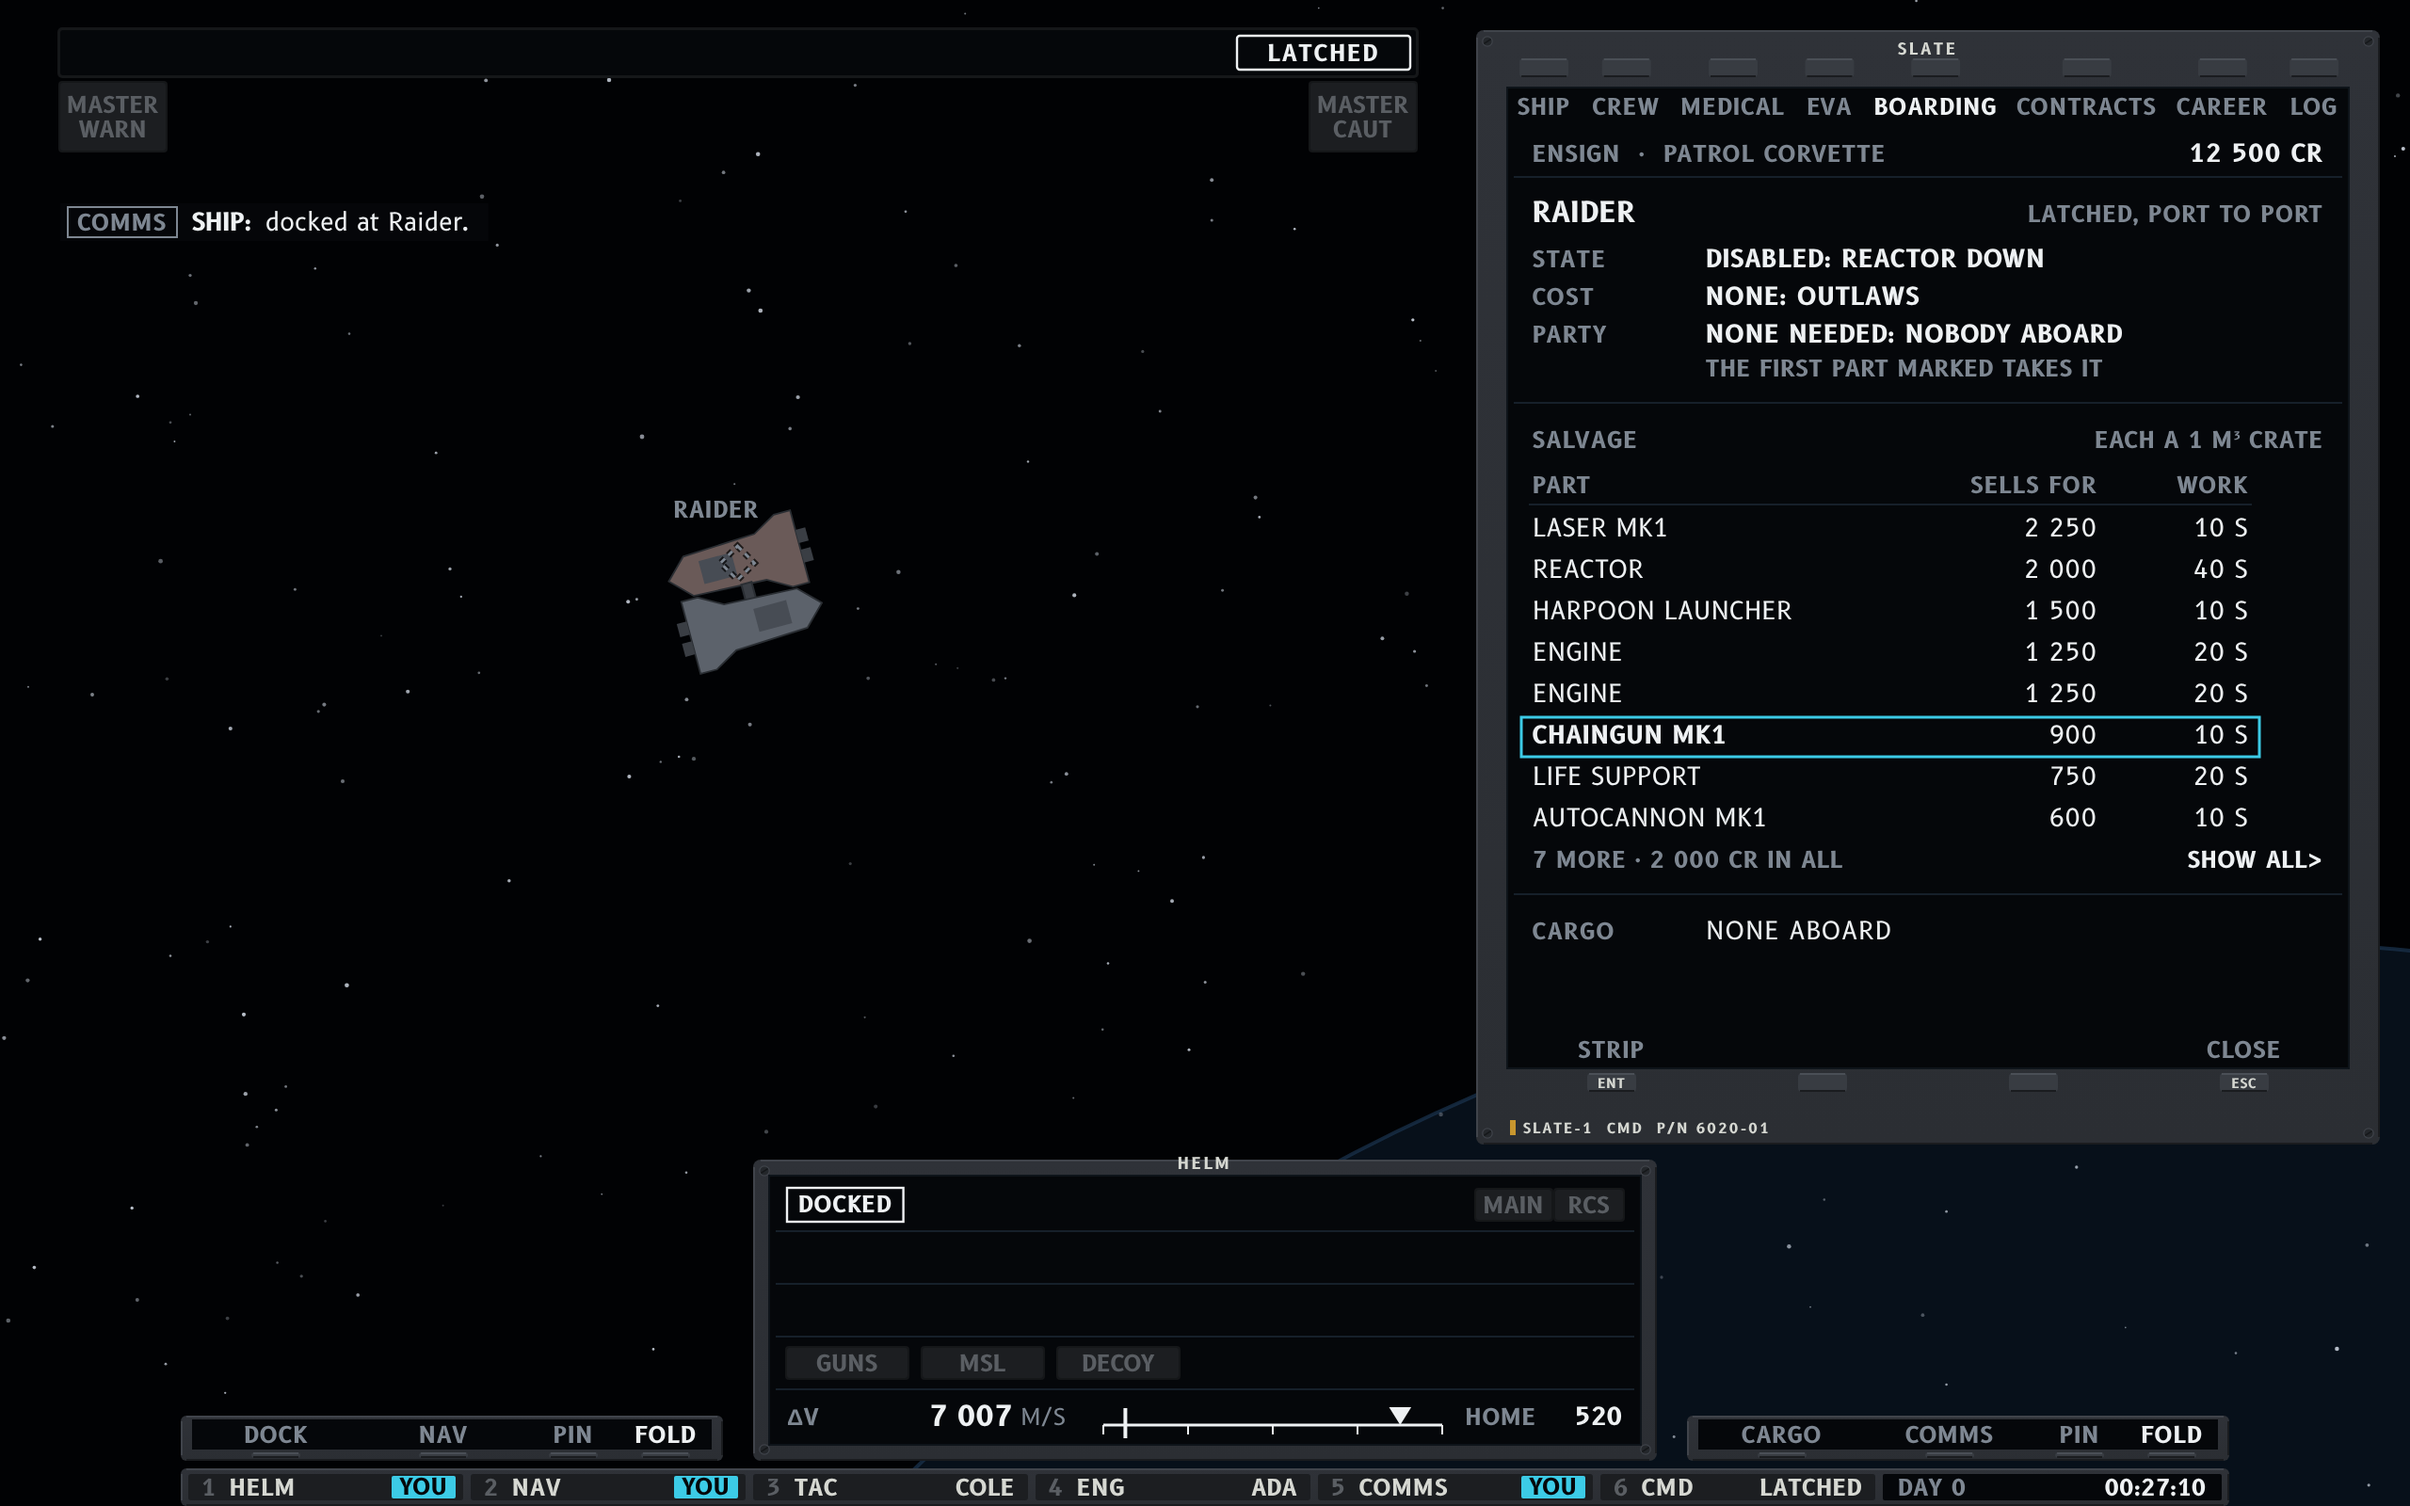
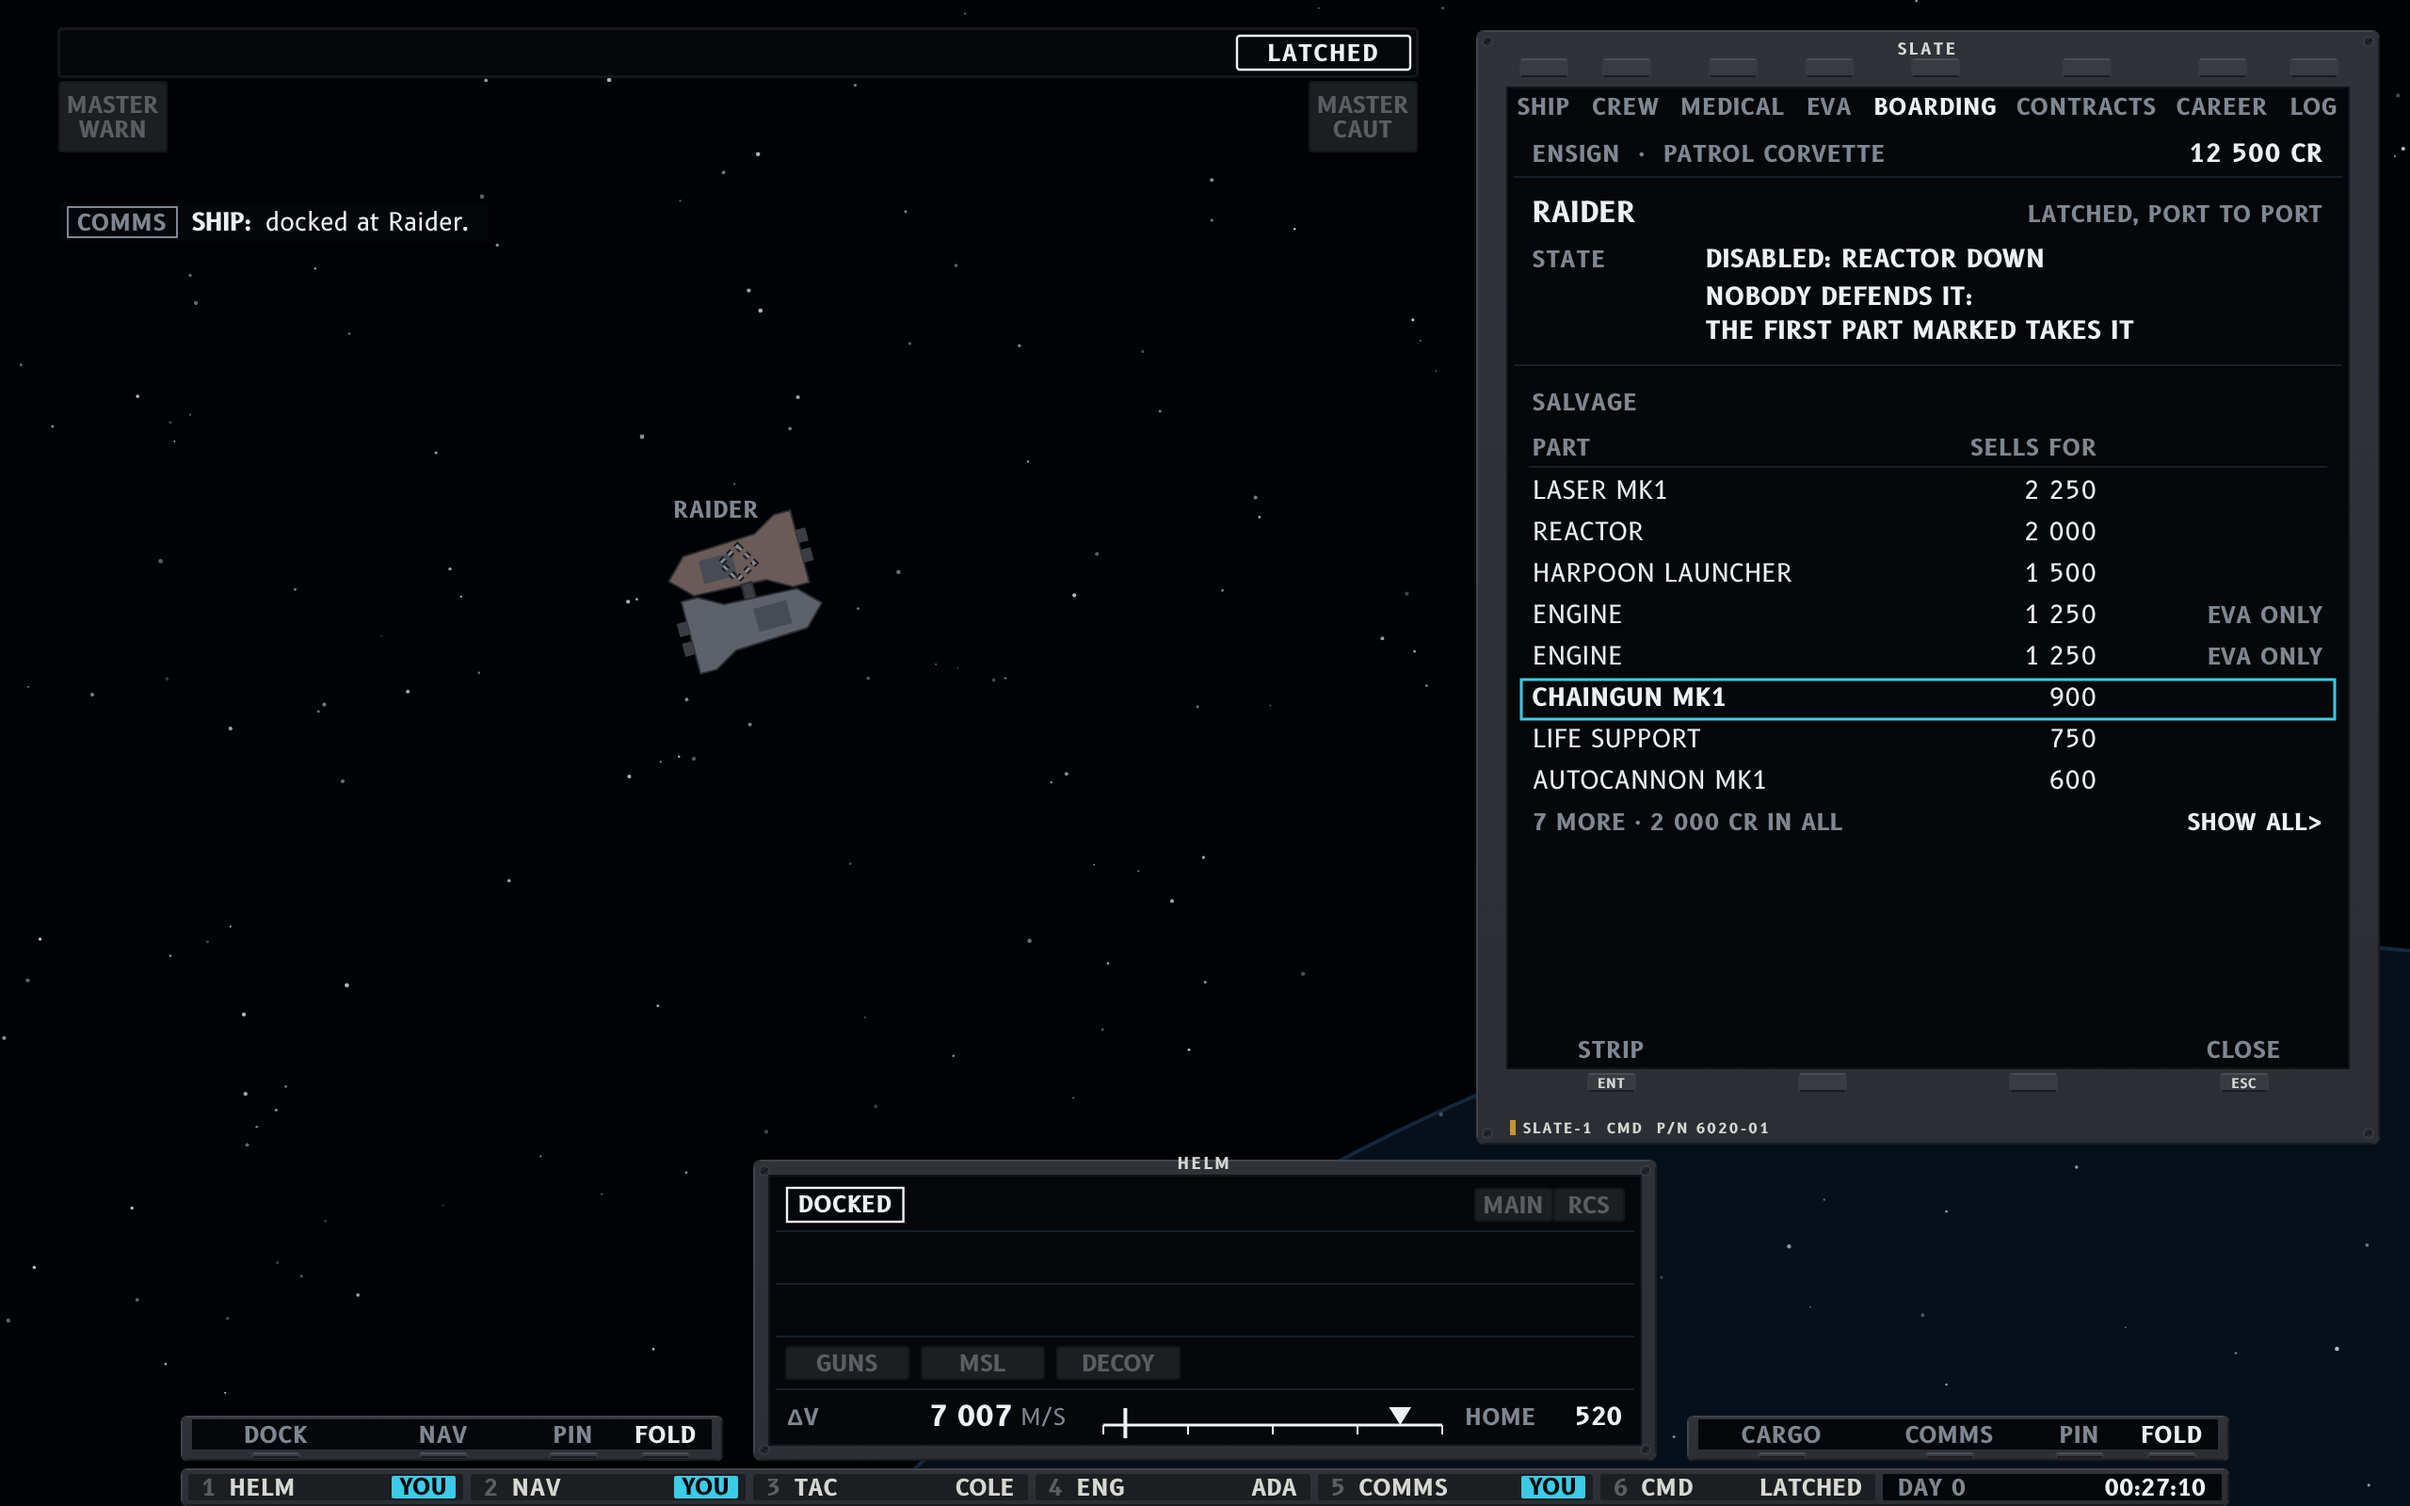
Nasa-punk x Stations: draw round 19's Boarding tab on S5
A disabled ship nobody defends gets no party row: the state line says
once that the first part marked takes it, and the parts are open at
once. The engines read EVA ONLY, and the empty cost and cargo rows go
by the same dark-ship rule.

Claude-Session: https://claude.ai/code/session_019poqwU7t7xAtWdh55iGaqe

Changed region(s): [[0.625, 0.1875, 0.9688, 0.625], [0.6875, 0.1875, 0.9062, 0.25]]

diff --git a/documentation/ui-overhaul/variations/nasapunk-stations/s5-slate-boarding.html b/documentation/ui-overhaul/variations/nasapunk-stations/s5-slate-boarding.html
@@ -19,16 +19,18 @@
 // part (the captain's rank, the ship and the credits) is on the glass, under the tabs; the bezel
 // carries only the panel's name.
 //
-// The tab is what the game's boarding window has for this ship (BoardingWork, Boarding, Salvage).
-// First Play's raider flies with nobody aboard (GameScenario spawns it with no crew and no cargo), and
-// a disabled ship nobody defends needs no party: the first part marked takes it
-// (Boarding.takeUndefended), so the game hides the party's orders and opens the salvage at once,
-// with its state "Disabled: reactor down" until the first order and "Taken" from then on. So the tab
-// gives the state, says why there is no party to send, and lists what can be stripped, most valuable
-// first, each at what a station pays for it (a twentieth of its price new, Salvage.SALE_SHARE) and
-// its work (a tile's 10 s at the usual rate); every part comes off as a 1 m³ crate. The engines hang
-// outside the hull, but the game finds that only once their strip is ordered, so they read as any
-// other part. The cursor is on the chaingun, which S6 fits from the hold, and Enter strips it.
+// The tab is the spec's Boarding tab (10.4, round 19), on what the game's boarding window has for
+// this ship (BoardingWork, Boarding, Salvage). First Play's raider flies with nobody aboard
+// (GameScenario spawns it with no crew and no cargo), and a disabled ship nobody defends needs no
+// party: the first part marked takes it (Boarding.canTakeUndefended), so the game hides the party's
+// orders and opens the salvage at once. So the tab has no party row, not even one saying none is
+// needed: the state line says it once, "Nobody defends it: the first part marked takes it", and the
+// parts are open at once, most valuable first, each at what a station pays for it (a twentieth of
+// its price new, Salvage.SALE_SHARE) and with how its strip stands. Latched, a part nobody can
+// reach from inside reads EVA ONLY before it is marked, so the engines, which hang outside the
+// hull, say so (new data, 19: Salvage.reachable). The raider's hold is empty, so the tab has no
+// cargo, and boarding outlaws costs no standing, so nothing says so. The cursor is on the
+// chaingun, which S6 fits from the hold, and Enter strips it.
 let s = space({ px: 1180, py: 1500, pr: 1000, seed: 9 });
 // the pair in the outside view: the raider is the corvette refitted by pirates (GameScenario's
 // corvette_raider), so it is drawn on the corvette's hull in its own colours, latched along our port
@@ -93,27 +95,25 @@ s += consoleFace(P.x, P.y, P.w, P.h, {
     // the title bar's live part, on the glass: the captain's rank, the ship and the credits
     c += text(L, gy + 40, 'ENSIGN  ·  PATROL CORVETTE', { size: 12, bold: true, fill: C.dim, track: 0.6 }) + text(R, gy + 40, '12 500 CR', { size: SB, bold: true, fill: C.white, anchor: 'end', track: 0.4 });
     c += rule(gy + 48);
-    // the other ship, and why no party goes
+    // the other ship and its state, in the game's words: disabled, and nobody defends it, so the
+    // first part marked takes it; the tab has no party row for it (10.4, round 19)
     c += val(L, gy + 72, 'RAIDER', { size: 15 }) + text(R, gy + 72, 'LATCHED, PORT TO PORT', { size: 12, bold: true, fill: C.dim, anchor: 'end', track: 0.5 });
     c += head(gy + 96, 'STATE') + val(V0, gy + 96, 'DISABLED: REACTOR DOWN');
-    c += head(gy + 116, 'COST') + val(V0, gy + 116, 'NONE: OUTLAWS');
-    c += head(gy + 136, 'PARTY') + val(V0, gy + 136, 'NONE NEEDED: NOBODY ABOARD');
-    c += note(V0, gy + 154, 'THE FIRST PART MARKED TAKES IT', C.dim);
-    c += rule(gy + 168);
-    // what can be stripped, most valuable first, with what a station pays and the work
-    c += head(gy + 192, 'SALVAGE') + note(R, gy + 192, 'EACH A 1 M³ CRATE', C.dim, { anchor: 'end' });
+    c += val(V0, gy + 116, 'NOBODY DEFENDS IT:') + val(V0, gy + 134, 'THE FIRST PART MARKED TAKES IT');
+    c += rule(gy + 148);
+    // the parts, most valuable first: what a station pays for each and how its strip stands; latched,
+    // a part nobody can reach from inside reads EVA ONLY before it is marked
+    c += head(gy + 172, 'SALVAGE');
     const rows = [
-      ['LASER MK1', '2 250', '10 S'], ['REACTOR', '2 000', '40 S'], ['HARPOON LAUNCHER', '1 500', '10 S'],
-      ['ENGINE', '1 250', '20 S'], ['ENGINE', '1 250', '20 S'], ['CHAINGUN MK1', '900', '10 S'],
-      ['LIFE SUPPORT', '750', '20 S'], ['AUTOCANNON MK1', '600', '10 S'],
+      ['LASER MK1', '2 250', ''], ['REACTOR', '2 000', ''], ['HARPOON LAUNCHER', '1 500', ''],
+      ['ENGINE', '1 250', 'EVA ONLY'], ['ENGINE', '1 250', 'EVA ONLY'], ['CHAINGUN MK1', '900', ''],
+      ['LIFE SUPPORT', '750', ''], ['AUTOCANNON MK1', '600', ''],
     ];
-    const gr = grid(L, gy + 216, [{ t: 'PART', w: 200 }, { t: 'SELLS FOR', w: 100, align: 'right' }, { t: 'WORK', w: 80, align: 'right' }], rows.map((r, i) => i === 5 ? { cells: [{ t: r[0], bold: true }, r[1], r[2]], cursor: true } : r), { rule: 0, rh: 22 });
+    const st = t => ({ t, c: C.dim, size: 12, bold: true });
+    const gr = grid(L, gy + 196, [{ t: 'PART', w: 200 }, { t: 'SELLS FOR', w: 100, align: 'right' }, { t: '', w: 120, align: 'right' }], rows.map((r, i) => i === 5 ? { cells: [{ t: r[0], bold: true }, r[1], st(r[2])], cursor: true } : [r[0], r[1], st(r[2])]), { rule: 0, rh: 22 });
     c += gr.svg;
     const my = gr.rowY(7) + 22;
     c += note(L, my, '7 MORE · 2 000 CR IN ALL', C.dim) + val(R, my, 'SHOW ALL>', { anchor: 'end', size: 12 });
-    c += rule(my + 14);
-    // the cargo aboard it: none
-    c += head(my + 38, 'CARGO') + val(V0, my + 38, 'NONE ABOARD', { bold: false });
     return c;
   },
 }).svg;

diff --git a/documentation/ui-overhaul/variations/nasapunk-round-log.md b/documentation/ui-overhaul/variations/nasapunk-round-log.md
@@ -10,7 +10,7 @@ at 1280 x 800.
 
 | Variation | Folder | Spec version drawn | State |
 |---|---|---|---|
-| Nasa-punk × Ship Stations | [`nasapunk-stations/`](nasapunk-stations/README.md) | round 14; S7 at round 15, S9 at 16, S8 at 18 | Converged in round 5; S7 to S9 drawn in round 7, and S5 to S8 redrawn for the crewless Raider |
+| Nasa-punk × Ship Stations | [`nasapunk-stations/`](nasapunk-stations/README.md) | round 14; S7 at round 15, S9 at 16, S8 at 18, S5 at 19 | Converged in round 5; S7 to S9 drawn in round 7, and S5 to S8 redrawn for the crewless Raider |
 | Nasa-punk × Context-driven | [`nasapunk-context/`](nasapunk-context/README.md) | version 17; C11 at 18 | Converged in round 5, and again at versions 13 to 18 in round 7; C11's questions and the crewless Raider are with the designer |
 | Nasa-punk × Task-driven | [`nasapunk-task/`](nasapunk-task/README.md) | round 15 | Converged in round 5; round 9 drawn in round 6, rounds 11 to 15 in round 7 |
 
@@ -615,7 +615,17 @@ one point for the stations designer.
 
 | Spec | Note sent this round | Landed |
 |---|---|---|
-| Stations (10.4) | The Boarding tab gives "the boarding party (send, recall)". For a disabled ship nobody defends, such as First Play's Raider, the game hides the party's orders and opens the salvage at once, and the first part marked takes it (`BoardingWork`, `Boarding.takeUndefended`). S5 keeps the PARTY row to say why none goes ("NONE NEEDED: NOBODY ABOARD", "THE FIRST PART MARKED TAKES IT") and opens the salvage. Is that the tab's rule for an undefended ship? | |
+| Stations (10.4) | The Boarding tab gives "the boarding party (send, recall)". For a disabled ship nobody defends, such as First Play's Raider, the game hides the party's orders and opens the salvage at once, and the first part marked takes it (`BoardingWork`, `Boarding.takeUndefended`). S5 keeps the PARTY row to say why none goes ("NONE NEEDED: NOBODY ABOARD", "THE FIRST PART MARKED TAKES IT") and opens the salvage. Is that the tab's rule for an undefended ship? | Round 19: no. A row that only says it isn't needed is the empty state the dark-ship rule removes, so there is no party row; the state line says it once ("Nobody defends it: the first part marked takes it"), and the parts list is open at once (10.4) |
+
+**Round 19** took the note and went further. It adopts the task spec's EVA ONLY: latched, a part
+nobody can reach from inside reads so before it is marked (new data, `Salvage.reachable`). And it
+opens the tab alongside a ship in EVA reach too, as today's window boards and strips one there, with
+the CMD tile's boarding badge but no status-strip state, the parts inside the hull reading "inside:
+latch on". S5 is redrawn to it. The PARTY row is gone, and by the same rule so are the COST row
+(boarding outlaws costs no standing) and the CARGO row (the Raider's hold is empty). The engines
+read EVA ONLY. The work column and the crate note were the task spec's, not this one's, so they go
+too: the stations spec's parts are each with what it sells for and how its strip stands. No
+stations screen stands off alongside a ship, so the new case isn't drawn.
 
 ## Next
 

diff --git a/documentation/ui-overhaul/variations/nasapunk-stations/README.md b/documentation/ui-overhaul/variations/nasapunk-stations/README.md
@@ -1,6 +1,6 @@
 # Nasa-punk × Ship Stations
 
-The Ship Stations functional spec (`functional-stations.md`, round 14 when drawn, S7 at round 15, S9 at round 16 and S8 at round 18) skinned in the
+The Ship Stations functional spec (`functional-stations.md`, round 14 when drawn, S7 at round 15, S9 at round 16, S8 at round 18 and S5 at round 19) skinned in the
 Nasa-punk style (`../../nasapunk/style-nasapunk.md`), with its words from
 [`../../nasapunk/abbrev.md`](../../nasapunk/abbrev.md). Mockups are 1280 x 800 UI units drawn at
 2x; sources are the HTML files here, using `stations.js` and the shared kit in
@@ -91,15 +91,16 @@ it, and the camera's centre moves left by half its width, so the pair stays in t
 world still in view. The raider is the corvette refitted by pirates, so it is drawn on the
 corvette's hull in its own colours, half a turn round along the port side with the collar between.
 Latched, the strip and the CMD tile read LATCHED, the cluster's Velocity slot reads DOCKED with
-the Reference and Next event slots dark, and the rails offer DOCK and CARGO. The tab is what the
-game's boarding window has for this ship. First Play's raider flies with nobody aboard, and a
-disabled ship nobody defends needs no party: the first part marked takes it
-(`Boarding.takeUndefended`), so the game hides the party's orders and opens the salvage at once.
-So the tab gives the raider's state and what boarding it costs, says why no party goes, and lists
-what can be stripped, most valuable first, each at what a station pays for it and its work, every
-part a 1 m³ crate. The cursor is on the chaingun, which S6 fits from the hold, and Enter strips it.
-The engines hang outside the hull, but the game finds that only once their strip is ordered, so
-they read as any other part.
+the Reference and Next event slots dark, and the rails offer DOCK and CARGO. The tab is round
+19's, on what the game's boarding window has for this ship. First Play's raider flies with nobody
+aboard, and a disabled ship nobody defends needs no party: the first part marked takes it
+(`Boarding.canTakeUndefended`), so the game hides the party's orders and opens the salvage at once.
+So the tab has no party row, not even one saying none is needed: the state line says it once,
+"Nobody defends it: the first part marked takes it", and the parts are open at once, most valuable
+first, each at what a station pays for it. Latched, a part nobody can reach from inside reads EVA
+ONLY before it is marked, so the engines, which hang outside the hull, say so. The raider's hold is
+empty and boarding outlaws costs no standing, so the tab says neither. The cursor is on the
+chaingun, which S6 fits from the hold, and Enter strips it.
 
 ![The yard](s6-yard.png)
 
